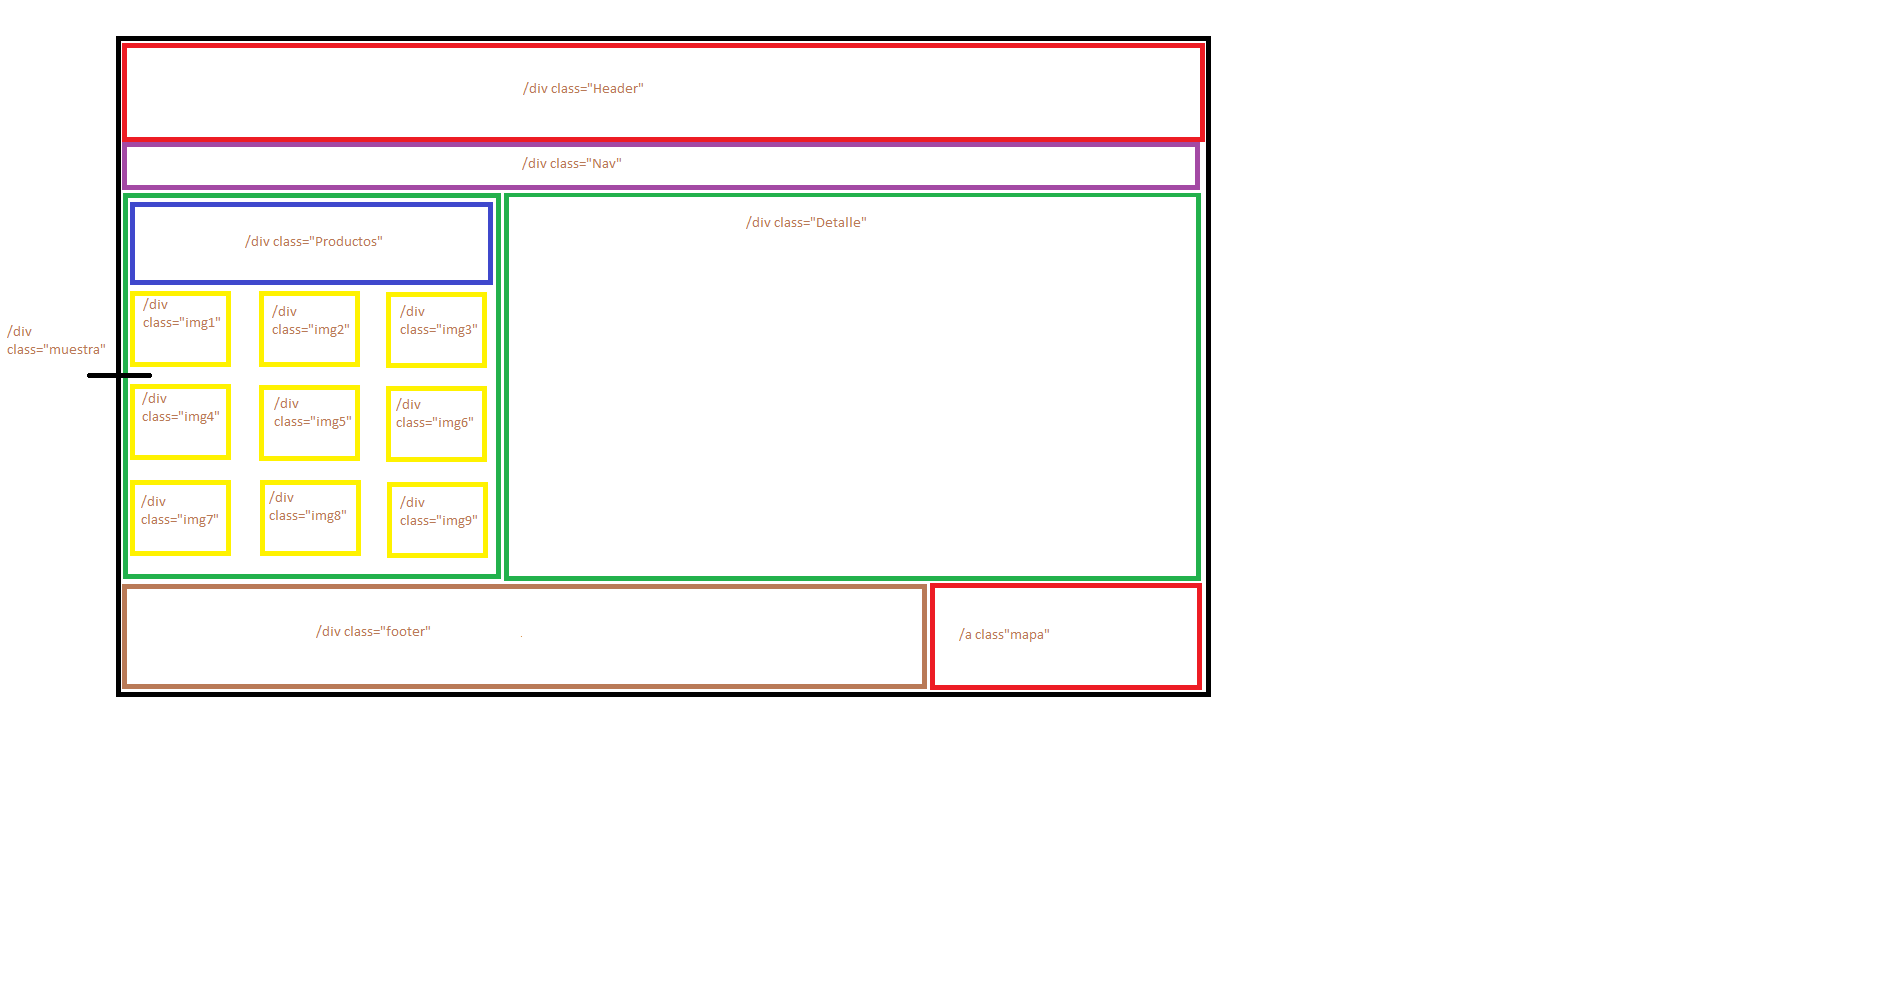
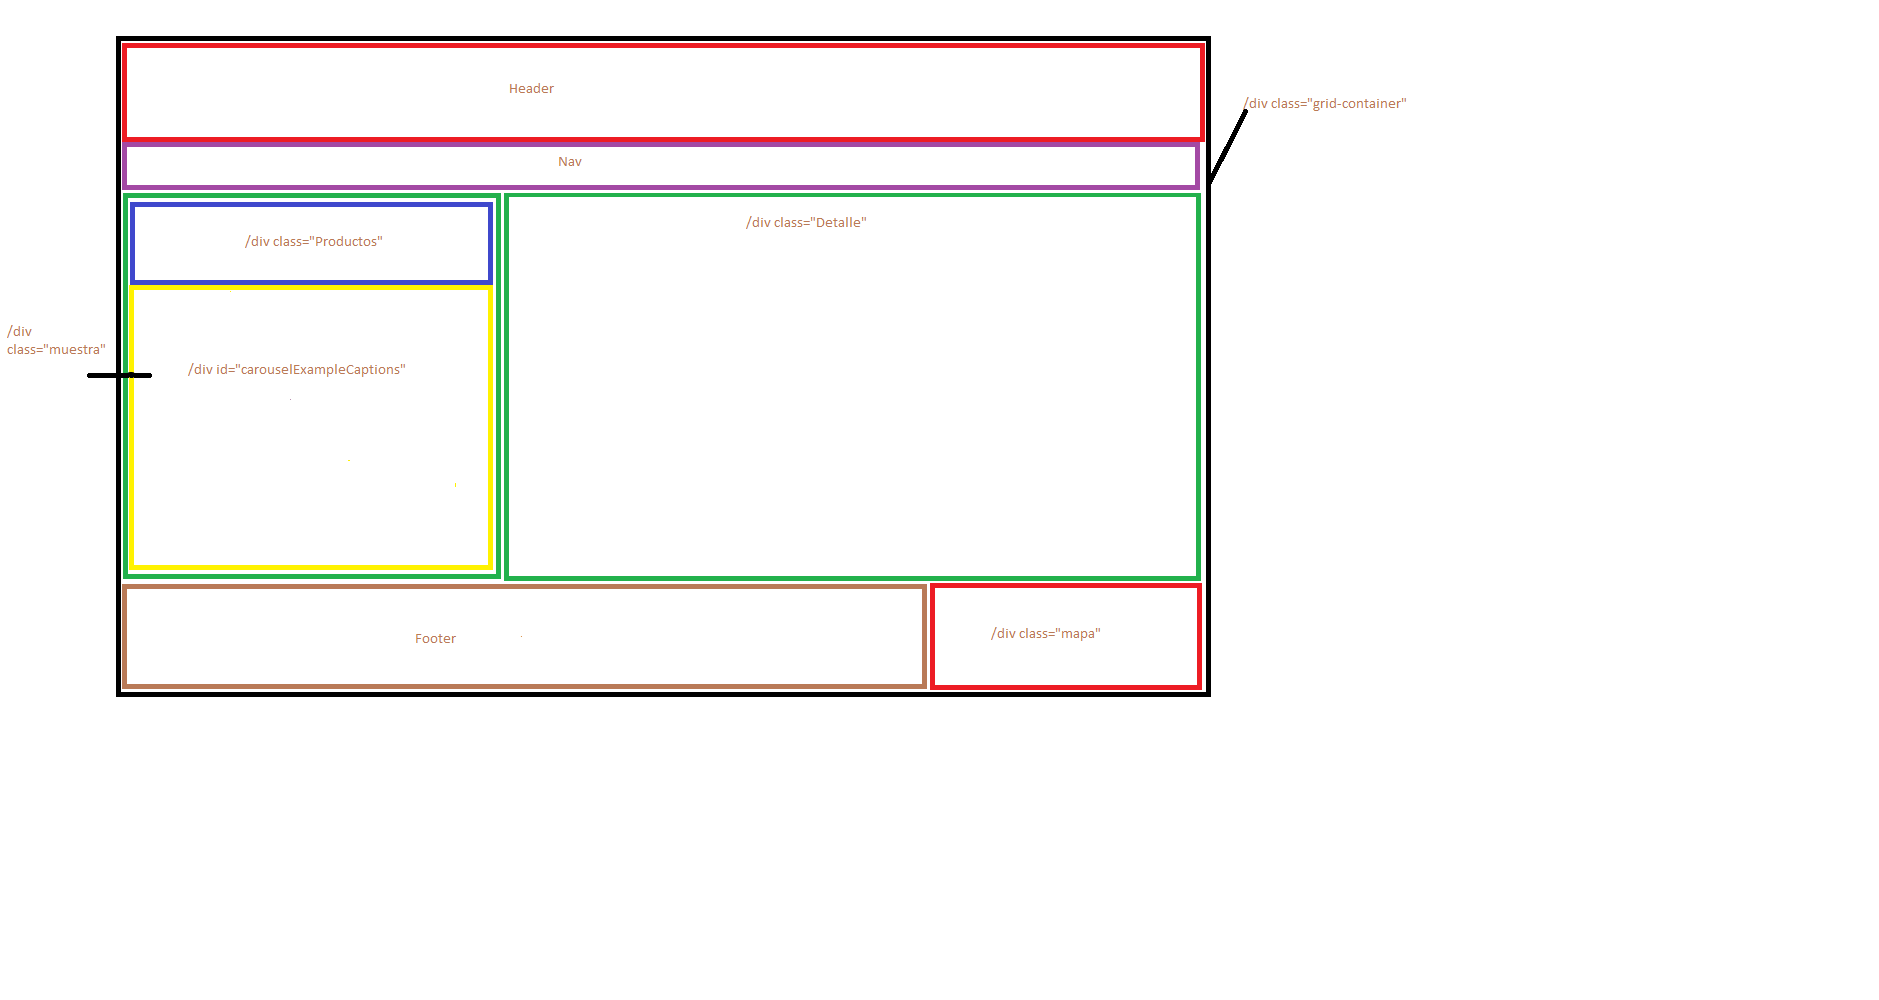
V2.0
Pequeñas correcciones+Mockups mobiles

diff --git a/index.html b/index.html
@@ -1,155 +1,156 @@
-<head>
-    <title >Pollería y Almacen MB</title>
-    <link rel="icon" href="img/logo.png">
-    <link rel="stylesheet" href="css/estilos.css">
-    <link rel="preconnect" href="https://fonts.googleapis.com">
-    <link rel="preconnect" href="https://fonts.gstatic.com" crossorigin>
-    <link href="https://fonts.googleapis.com/css2?family=Montserrat&display=swap" rel="stylesheet">
-    <meta name="viewport" content="width=device-width, initial-sacle=1">
-    <link href="https://cdn.jsdelivr.net/npm/bootstrap@5.1.3/dist/css/bootstrap.min.css" rel="stylesheet" integrity="sha384-1BmE4kWBq78iYhFldvKuhfTAU6auU8tT94WrHftjDbrCEXSU1oBoqyl2QvZ6jIW3" crossorigin="anonymous">
-</head>
-    <body>
-        <div class="grid-container">
-            <header>
-                <h1>Bienvenidos a Pollería y Almacen MB</h1>
-            </header>
-            <nav class="navbar navbar-expand-lg navbar-light bg-light">
-                <div class="container-fluid">
-                  <a class="navbar-brand" href="index.html"><img src="img/logo.png" width="10%" height="10%"></a>
-                  <button class="navbar-toggler" type="button" data-bs-toggle="collapse" data-bs-target="#navbarSupportedContent" aria-controls="navbarSupportedContent" aria-expanded="false" aria-label="Toggle navigation">
-                    <span class="navbar-toggler-icon"></span>
-                  </button>
-                  <div class="collapse navbar-collapse" id="navbarSupportedContent">
-                    <ul class="navbar-nav me-auto mb-2 mb-lg-0">
-                      <li class="nav-item">
-                        <a class="nav-link active" aria-current="page" href="index.html">Inicio</a>
-                      </li>
-                      <li class="nav-item">
-                        <a class="nav-link" href="precios.html">Precios</a>
-                      </li>
-                    </ul>
-                  </div>
-                </div>
-              </nav>
-            <div class="Muestra">
-                <div class="Productos">
-                    <h1 class="h1-productos">Productos</h1>
-                    <p class="p-productos">En Polleria y Almacen MB trabajamos diariamente con productos de alta calidad como lo que se mostrarán en las siguientes imagenes:</p>
-                </div>
-                <div id="carouselExampleCaptions" class="carousel slide" data-bs-ride="carousel">
-                  <div class="carousel-indicators">
-                    <button type="button" data-bs-target="#carouselExampleCaptions" data-bs-slide-to="0" class="active" aria-current="true" aria-label="Slide 1"></button>
-                    <button type="button" data-bs-target="#carouselExampleCaptions" data-bs-slide-to="1" aria-label="Slide 2"></button>
-                    <button type="button" data-bs-target="#carouselExampleCaptions" data-bs-slide-to="2" aria-label="Slide 3"></button>
-                    <button type="button" data-bs-target="#carouselExampleCaptions" data-bs-slide-to="3" aria-label="Slide 4"></button>
-                    <button type="button" data-bs-target="#carouselExampleCaptions" data-bs-slide-to="4" aria-label="Slide 5"></button>
-                    <button type="button" data-bs-target="#carouselExampleCaptions" data-bs-slide-to="5" aria-label="Slide 6"></button>
-                    <button type="button" data-bs-target="#carouselExampleCaptions" data-bs-slide-to="6" aria-label="Slide 7"></button>
-                    <button type="button" data-bs-target="#carouselExampleCaptions" data-bs-slide-to="7" aria-label="Slide 8"></button>
-                    <button type="button" data-bs-target="#carouselExampleCaptions" data-bs-slide-to="8" aria-label="Slide 9"></button>
-                  </div>
-                  <div class="carousel-inner">
-                    <div class="carousel-item active">
-                      <img src="img/trozado.png" class="d-block w-100" width="100%" height="100%">
-                      <div class="carousel-caption d-none d-md-block">
-                        <h5>Pollo trozado</h5>
-                      </div>
-                    </div>
-                    <div class="carousel-item">
-                      <img src="img/polloentero.png" class="d-block w-100" width="100%" height="100%">
-                      <div class="carousel-caption d-none d-md-block">
-                        <h5>Pollo entero</h5>
-                      </div>
-                    </div>
-                    <div class="carousel-item">
-                      <img src="img/patamuslo.png" class="d-block w-100" width="100%" height="100%">
-                      <div class="carousel-caption d-none d-md-block">
-                        <h5>Patamuslo</h5>
-                      </div>
-                    </div>
-                    <div class="carousel-item">
-                      <img src="img/pechuga.png" class="d-block w-100" width="100%" height="100%">
-                      <div class="carousel-caption d-none d-md-block">
-                        <h5>Pechuga c/hueso</h5>
-                      </div>
-                    </div>
-                    <div class="carousel-item">
-                      <img src="img/pechugadeshuesada.png" class="d-block w-100" width="100%" height="100%">
-                      <div class="carousel-caption d-none d-md-block">
-                        <h5>Pechuga s/hueso</h5>
-                      </div>
-                    </div>
-                    <div class="carousel-item">
-                      <img src="img/bife.png" class="d-block w-100" width="100%" height="100%">
-                      <div class="carousel-caption d-none d-md-block">
-                        <h5>Filet de Pechuga</h5>
-                      </div>
-                    </div>
-                    <div class="carousel-item">
-                      <img src="img/milanesa.png" class="d-block w-100" width="100%" height="100%">
-                      <div class="carousel-caption d-none d-md-block">
-                        <h5>Milanesa de Pollo</h5>
-                      </div>
-                    </div>
-                    <div class="carousel-item">
-                      <img src="img/albondiga.png" class="d-block w-100" width="100%" height="100%">
-                      <div class="carousel-caption d-none d-md-block">
-                        <h5>Albondiga de Pollo</h5>
-                      </div>
-                    </div>
-                    <div class="carousel-item">
-                      <img src="img/arrollado.png" class="d-block w-100" width="100%" height="100%">
-                      <div class="carousel-caption d-none d-md-block">
-                        <h5>Arrollado de Pollo</h5>
-                      </div>
+<html>
+  <head>
+      <title >Pollería y Almacen MB</title>
+      <link rel="icon" href="img/logo.png">
+      <link rel="stylesheet" href="css/estilos.css">
+      <link rel="preconnect" href="https://fonts.googleapis.com">
+      <link rel="preconnect" href="https://fonts.gstatic.com" crossorigin>
+      <link href="https://fonts.googleapis.com/css2?family=Montserrat&display=swap" rel="stylesheet">
+      <meta name="viewport" content="width=device-width, initial-sacle=1">
+      <link href="https://cdn.jsdelivr.net/npm/bootstrap@5.1.3/dist/css/bootstrap.min.css" rel="stylesheet" integrity="sha384-1BmE4kWBq78iYhFldvKuhfTAU6auU8tT94WrHftjDbrCEXSU1oBoqyl2QvZ6jIW3" crossorigin="anonymous">
+  </head>
+      <body>
+          <div class="grid-container">
+              <header>
+                  <h1>Bienvenidos a Pollería y Almacen MB</h1>
+              </header>
+              <nav class="navbar navbar-expand-lg navbar-light bg-light">
+                  <div class="container-fluid">
+                    <a class="navbar-brand" href="index.html"><img src="img/logo.png" width="10%" height="10%"></a>
+                    <button class="navbar-toggler" type="button" data-bs-toggle="collapse" data-bs-target="#navbarSupportedContent" aria-controls="navbarSupportedContent" aria-expanded="false" aria-label="Toggle navigation">
+                      <span class="navbar-toggler-icon"></span>
+                    </button>
+                    <div class="collapse navbar-collapse" id="navbarSupportedContent">
+                      <ul class="navbar-nav me-auto mb-2 mb-lg-0">
+                        <li class="nav-item">
+                          <a class="nav-link active" aria-current="page" href="index.html">Inicio</a>
+                        </li>
+                        <li class="nav-item">
+                          <a class="nav-link" href="precios.html">Precios</a>
+                        </li>
+                      </ul>
                     </div>
                   </div>
-                  <button class="carousel-control-prev" type="button" data-bs-target="#carouselExampleCaptions" data-bs-slide="prev">
-                    <span class="carousel-control-prev-icon" aria-hidden="true"></span>
-                    <span class="visually-hidden">Anterior</span>
-                  </button>
-                  <button class="carousel-control-next" type="button" data-bs-target="#carouselExampleCaptions" data-bs-slide="next">
-                    <span class="carousel-control-next-icon" aria-hidden="true"></span>
-                    <span class="visually-hidden">Siguiente</span>
-                  </button>
-                </div>
-            </div>
-            <div class="Detalle">
-                    <h1>Quienes somos</h1>
-                    <p>Somos un pequeño emprendimientos el cual, a razón de la pandemia y a la falta de trabajo,
-                        inicio en un pequeño garage siendo muy precario. Hoy en día trabajamos con muchos proveedores 
-                        importantes para poder traer los productos de mayor calidad al mejor precio. Nos caracerizamos 
-                        y diferenciamos principalmente por tener una gran variedad de milanesas de pollos condimentadas, las cuales son
-                         las siguientes ordenadas por la cantidad vendidas diariamente:
-                    </p>
-                    <ol>
-                        <li>Sal (sin condimento)</li>
-                        <li>Provenzal</li>
-                        <li>Condimento para Pizza</li>
-                        <li>Oregano</li>
-                        <li>Ajo en polvo</li>
-                        <li>Albhaca</li>
-                    </ol>
-                    <p>También contamos con todas las posibilidades de pago para que puedas llevarte los mejores productos 
-                        tanto de granja como de almacen al mejor precio del mercado:
-                    </p>
-                    <ul>
-                        <li>Efectivo</li>
-                        <li>Transferencia Bancaria</li>
-                        <li>Tarjetas de Crédito y Débito</li>
-                        <li>Billetera Santa Fe (de Lunes a Viernes)</li>
-                    </ul>
-            </div>  
-            <div class="mapa">
-              <a href="https://goo.gl/maps/NgxcVFmnAeheLp6L9" class="mapa"><iframe src="https://www.google.com/maps/embed?pb=!1m18!1m12!1m3!1d9603.368393242732!2d-60.76887738987468!3d-31.680271183443317!2m3!1f0!2f0!3f0!3m2!1i1024!2i768!4f13.1!3m3!1m2!1s0x95b5a89ce69e8903%3A0xd2c9fdc05b8b6ad7!2sLCD%2C%20C.%20Belgrano%203758%2C%20S3016%20Santo%20Tom%C3%A9%2C%20Provincia%20de%20Santa%20Fe!5e0!3m2!1ses-419!2sar!4v1685145697966!5m2!1ses-419!2sar" style="border:0;" allowfullscreen="" loading="lazy" referrerpolicy="no-referrer-when-downgrade"></iframe></a>
-            </div>
-            <footer>
-                <h3>Contactanos</h3>
-                <h4>Numero de telefono/Whatsapp: <strong>+54 342 519 3920</strong></h4>
-                <h3>Donde encontrarnos</h3>
-                <h4>Belgrano 3758, Santo Tomé, Santa Fe</h4>
-            </footer>
-        </div>
-        <script src="https://cdn.jsdelivr.net/npm/bootstrap@5.1.3/dist/js/bootstrap.bundle.min.js" integrity="sha384-ka7Sk0Gln4gmtz2MlQnikT1wXgYsOg+OMhuP+IlRH9sENBO0LRn5q+8nbTov4+1p" crossorigin="anonymous"></script>
-    </body>
+                </nav>
+              <div class="Muestra">
+                  <div class="Productos">
+                      <h1 class="h1-productos">Productos</h1>
+                      <p class="p-productos">En Polleria y Almacen MB trabajamos diariamente con productos de alta calidad como lo que se mostrarán en las siguientes imagenes:</p>
+                  </div>
+                  <div id="carouselExampleCaptions" class="carousel slide" data-bs-ride="carousel">
+                    <div class="carousel-indicators">
+                      <button type="button" data-bs-target="#carouselExampleCaptions" data-bs-slide-to="0" class="active" aria-current="true" aria-label="Slide 1"></button>
+                      <button type="button" data-bs-target="#carouselExampleCaptions" data-bs-slide-to="1" aria-label="Slide 2"></button>
+                      <button type="button" data-bs-target="#carouselExampleCaptions" data-bs-slide-to="2" aria-label="Slide 3"></button>
+                      <button type="button" data-bs-target="#carouselExampleCaptions" data-bs-slide-to="3" aria-label="Slide 4"></button>
+                      <button type="button" data-bs-target="#carouselExampleCaptions" data-bs-slide-to="4" aria-label="Slide 5"></button>
+                      <button type="button" data-bs-target="#carouselExampleCaptions" data-bs-slide-to="5" aria-label="Slide 6"></button>
+                      <button type="button" data-bs-target="#carouselExampleCaptions" data-bs-slide-to="6" aria-label="Slide 7"></button>
+                      <button type="button" data-bs-target="#carouselExampleCaptions" data-bs-slide-to="7" aria-label="Slide 8"></button>
+                      <button type="button" data-bs-target="#carouselExampleCaptions" data-bs-slide-to="8" aria-label="Slide 9"></button>
+                    </div>
+                    <div class="carousel-inner">
+                      <div class="carousel-item active">
+                        <img src="img/trozado.png" class="d-block w-100" width="100%" height="100%">
+                        <div class="carousel-caption d-none d-md-block">
+                          <h5>Pollo trozado</h5>
+                        </div>
+                      </div>
+                      <div class="carousel-item">
+                        <img src="img/polloentero.png" class="d-block w-100" width="100%" height="100%">
+                        <div class="carousel-caption d-none d-md-block">
+                          <h5>Pollo entero</h5>
+                        </div>
+                      </div>
+                      <div class="carousel-item">
+                        <img src="img/patamuslo.png" class="d-block w-100" width="100%" height="100%">
+                        <div class="carousel-caption d-none d-md-block">
+                          <h5>Patamuslo</h5>
+                        </div>
+                      </div>
+                      <div class="carousel-item">
+                        <img src="img/pechuga.png" class="d-block w-100" width="100%" height="100%">
+                        <div class="carousel-caption d-none d-md-block">
+                          <h5>Pechuga c/hueso</h5>
+                        </div>
+                      </div>
+                      <div class="carousel-item">
+                        <img src="img/pechugadeshuesada.png" class="d-block w-100" width="100%" height="100%">
+                        <div class="carousel-caption d-none d-md-block">
+                          <h5>Pechuga s/hueso</h5>
+                        </div>
+                      </div>
+                      <div class="carousel-item">
+                        <img src="img/bife.png" class="d-block w-100" width="100%" height="100%">
+                        <div class="carousel-caption d-none d-md-block">
+                          <h5>Filet de Pechuga</h5>
+                        </div>
+                      </div>
+                      <div class="carousel-item">
+                        <img src="img/milanesa.png" class="d-block w-100" width="100%" height="100%">
+                        <div class="carousel-caption d-none d-md-block">
+                          <h5>Milanesa de Pollo</h5>
+                        </div>
+                      </div>
+                      <div class="carousel-item">
+                        <img src="img/albondiga.png" class="d-block w-100" width="100%" height="100%">
+                        <div class="carousel-caption d-none d-md-block">
+                          <h5>Albondiga de Pollo</h5>
+                        </div>
+                      </div>
+                      <div class="carousel-item">
+                        <img src="img/arrollado.png" class="d-block w-100" width="100%" height="100%">
+                        <div class="carousel-caption d-none d-md-block">
+                          <h5>Arrollado de Pollo</h5>
+                        </div>
+                      </div>
+                    </div>
+                    <button class="carousel-control-prev" type="button" data-bs-target="#carouselExampleCaptions" data-bs-slide="prev">
+                      <span class="carousel-control-prev-icon" aria-hidden="true"></span>
+                      <span class="visually-hidden">Anterior</span>
+                    </button>
+                    <button class="carousel-control-next" type="button" data-bs-target="#carouselExampleCaptions" data-bs-slide="next">
+                      <span class="carousel-control-next-icon" aria-hidden="true"></span>
+                      <span class="visually-hidden">Siguiente</span>
+                    </button>
+                  </div>
+              </div>
+              <div class="Detalle">
+                      <h1>Quienes somos</h1>
+                      <p>Somos un pequeño emprendimientos el cual, a razón de la pandemia y a la falta de trabajo,
+                          inicio en un pequeño garage siendo muy precario. Hoy en día trabajamos con muchos proveedores 
+                          importantes para poder traer los productos de mayor calidad al mejor precio. Nos caracerizamos 
+                          y diferenciamos principalmente por tener una gran variedad de milanesas de pollos condimentadas, las cuales son
+                          las siguientes ordenadas por la cantidad vendidas diariamente:
+                      </p>
+                      <ol>
+                          <li>Sal (sin condimento)</li>
+                          <li>Provenzal</li>
+                          <li>Condimento para Pizza</li>
+                          <li>Oregano</li>
+                          <li>Ajo en polvo</li>
+                          <li>Albhaca</li>
+                      </ol>
+                      <p>También contamos con todas las posibilidades de pago para que puedas llevarte los mejores productos 
+                          tanto de granja como de almacen al mejor precio del mercado:
+                      </p>
+                      <ul>
+                          <li>Efectivo</li>
+                          <li>Transferencia Bancaria</li>
+                          <li>Tarjetas de Crédito y Débito</li>
+                          <li>Billetera Santa Fe (de Lunes a Viernes)</li>
+                      </ul>
+              </div>  
+              <div class="mapa">
+                <a href="https://goo.gl/maps/NgxcVFmnAeheLp6L9"><iframe src="https://www.google.com/maps/embed?pb=!1m18!1m12!1m3!1d9603.368393242732!2d-60.76887738987468!3d-31.680271183443317!2m3!1f0!2f0!3f0!3m2!1i1024!2i768!4f13.1!3m3!1m2!1s0x95b5a89ce69e8903%3A0xd2c9fdc05b8b6ad7!2sLCD%2C%20C.%20Belgrano%203758%2C%20S3016%20Santo%20Tom%C3%A9%2C%20Provincia%20de%20Santa%20Fe!5e0!3m2!1ses-419!2sar!4v1685145697966!5m2!1ses-419!2sar" style="border:0;" allowfullscreen="" loading="lazy" referrerpolicy="no-referrer-when-downgrade"></iframe></a>
+              </div>
+              <footer>
+                  <h3>Contactanos</h3>
+                  <h4>Numero de telefono/Whatsapp: <strong>+54 342 519 3920</strong></h4>
+                  <h3>Donde encontrarnos</h3>
+                  <h4>Belgrano 3758, Santo Tomé, Santa Fe</h4>
+              </footer>
+          </div>
+          <script src="https://cdn.jsdelivr.net/npm/bootstrap@5.1.3/dist/js/bootstrap.bundle.min.js" integrity="sha384-ka7Sk0Gln4gmtz2MlQnikT1wXgYsOg+OMhuP+IlRH9sENBO0LRn5q+8nbTov4+1p" crossorigin="anonymous"></script>
+      </body>
 </html>

diff --git a/precios.html b/precios.html
@@ -1,5 +1,4 @@
 <html>
-    <head>
         <head>
             <title >Pollería y Almacen MB</title>
             <link rel="icon" href="img/logo.png">
@@ -8,7 +7,6 @@
             <meta name="viewport" content="width=device-width, initial-sacle=1">
             <link href="https://cdn.jsdelivr.net/npm/bootstrap@5.1.3/dist/css/bootstrap.min.css" rel="stylesheet" integrity="sha384-1BmE4kWBq78iYhFldvKuhfTAU6auU8tT94WrHftjDbrCEXSU1oBoqyl2QvZ6jIW3" crossorigin="anonymous">
         </head>
-    </head>
     <body>
         <div class="grid-container">
             <header>

diff --git a/css/estilos-precios.css b/css/estilos-precios.css
@@ -9,7 +9,7 @@ body{
 }
 .grid-container{
     display: grid;
-    grid-template-columns: 2fr 2fr 2fr 2fr;
+    grid-template-columns: 2fr 3fr 3fr 2fr;
     grid-template-rows: 0.2fr 0.2fr 4.22fr 1fr;
 }
 header{
@@ -40,6 +40,7 @@ nav{
     grid-column: 3/4;
     grid-row: 3/4;
     margin: 10px;
+    margin-bottom: 50%;
 }
 footer{
     background-color: #77DD77;
@@ -75,6 +76,7 @@ footer{
         grid-row: 4/5;
         margin-left: 10px !important;
         margin-right: 10px !important;
+        margin-bottom: 0;
     }
     .mapa{
         grid-column: 1/3;

diff --git a/css/estilos.css b/css/estilos.css
@@ -71,8 +71,8 @@ footer{
         display: grid;
         grid-template-areas: 'header'
                              'nav'
-                             'muestra' 
-                             'detalle'
+                             'detalle' 
+                             'muestra'
                              'mapa'
                              'footer';
     }
